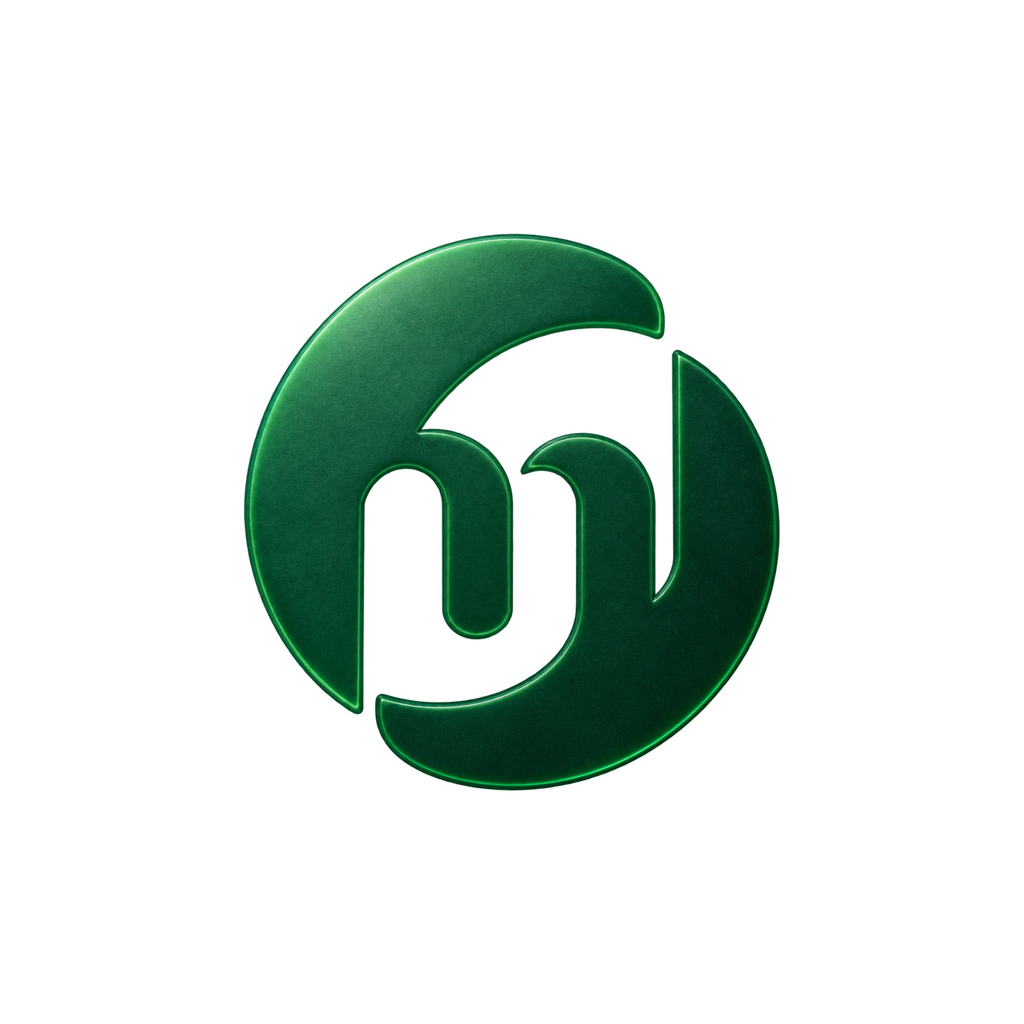
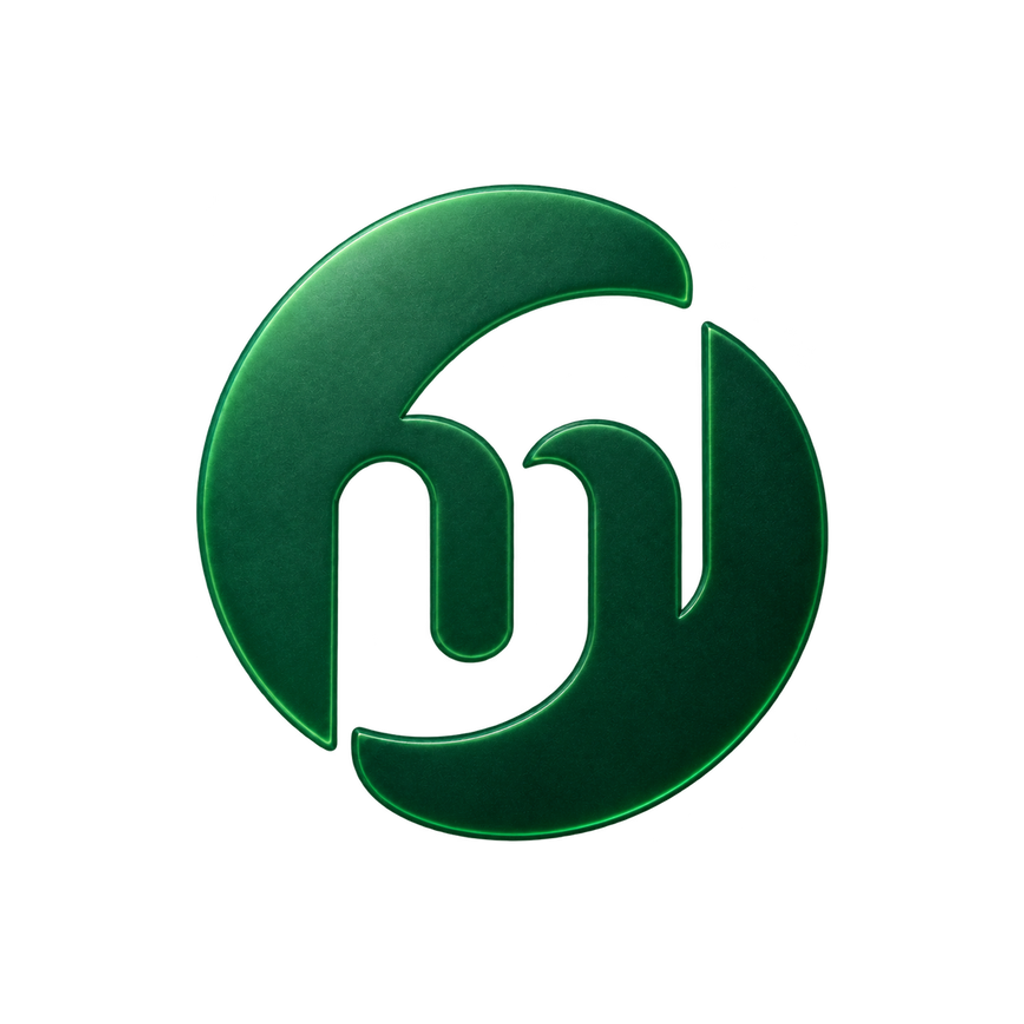
brand: frame the OM mark tighter in its square
The mark sat at 66% of the icon canvas, which read as a logo placed on a
tile rather than as the icon's subject. It is now drawn at 1.18×, spanning
about 78% with an 11% margin.

The scale is composed into the transform on each layer in `native-layers/`,
ahead of the existing flip, so it travels with the geometry wherever the SVG
is inlined — the Icon Composer bundle and the vector favicon both pick it up
with no second copy of the number. The raster masters were re-framed by the
same factor about their centre; the two opaque icons were re-derived from the
1254 px material sources, so the zoom is a crop rather than an upscale.

Two things deliberately did not move by the full amount. The Android
foreground and monochrome keep their extra padding — the launcher masks them
far harder than iOS does, so they go 52% to 62% rather than to 78%. And
`openmacro-mark.png` was already trimmed to its own edges.

The lockup now takes its symbol from the production icons with the launcher
corner radius applied, instead of from an Icon Composer preview. The previews
cannot be rebuilt from a script, and the lockup had quietly kept the old
framing because of it; the ones under `native-icon-*.png`, along with
`brand-proof.png`, still show the previous framing and need a re-export by
hand.

Claude-Session: https://claude.ai/code/session_01Cq1koRdzkTeYjoi6V8ZryU

Changed region(s): [[0.1875, 0.1562, 0.8125, 0.8438]]

diff --git a/assets/brand/v3/README.md b/assets/brand/v3/README.md
@@ -7,6 +7,23 @@ remains legible at Home Screen size. The lowercase wordmark stays flat.
 
 [Interactive proof](preview.html) · [Presentation image](brand-proof.png)
 
+## Framing
+
+The mark is drawn at **1.18×** inside its square, so it spans about 78% of the
+canvas and leaves an 11% margin — tight enough that the round O reads as the
+icon's subject rather than as something placed on a tile. The scale lives in
+the `transform` on each layer in `native-layers/`, composed ahead of the
+existing flip, so it travels with the geometry wherever the SVG is inlined —
+the Icon Composer bundle, the vector favicon, anything built later. Nothing
+downstream carries a second copy of the number.
+
+The raster masters were re-framed by the same 1.18 about their centre. The two
+opaque icons were re-derived from the 1254 px material sources, so the zoom is
+a crop of a larger image rather than an upscale. The Android foreground and
+monochrome keep their extra padding — they sit at 62% because the launcher
+masks them far more aggressively than iOS does, and 78% there would clip on a
+round mask.
+
 ## Production assets
 
 - `openmacro-lockup-light.png` and `openmacro-lockup-dark.png`: native OM icon
@@ -23,7 +40,11 @@ remains legible at Home Screen size. The lowercase wordmark stays flat.
 `app.json` selects `OpenMacro.icon` for iOS and the PNGs for splash, Android,
 and web. The PNG icon trio remains available as static brand/fallback artwork.
 The mobile header, website navigation and footers, social cards, and repository
-README use the material icon with the outlined lowercase wordmark. Earlier
+README use the material icon with the outlined lowercase wordmark. The lockup's
+symbol is `openmacro-icon-light.png` / `-dark.png` with the launcher corner
+radius applied, not an Icon Composer preview: the previews cannot be rebuilt
+from a script, and a lockup that depends on a hand-made file is a lockup that
+quietly goes stale. Earlier
 iterations and the original vector master remain available as design history.
 
 Run `npm run brand:export` from the repository root to reproduce the header
@@ -50,6 +71,12 @@ The bundle stores the actual Dark and Mono overrides in `icon.json`.
 Highlights, shadows, and depth are applied by Apple's renderer, following its
 [layered icon workflow](https://developer.apple.com/documentation/xcode/creating-your-app-icon-using-icon-composer).
 The static splash and Android artwork retain their fine ceramic texture.
+
+**These four previews, and `brand-proof.png` and `preview.html` with them,
+still show the previous looser framing.** Icon Composer has no command line —
+`ictool` will not export from a shell — so they can only be refreshed by
+opening `OpenMacro.icon` and exporting again. The bundle itself is current, so
+the shipped iOS icon is correct; it is only the documentation images that lag.
 
 `native-icon-default.png`, `native-icon-Dark.png`,
 `native-icon-ClearLight.png`, and `native-icon-TintedDark.png` are 1024 px
